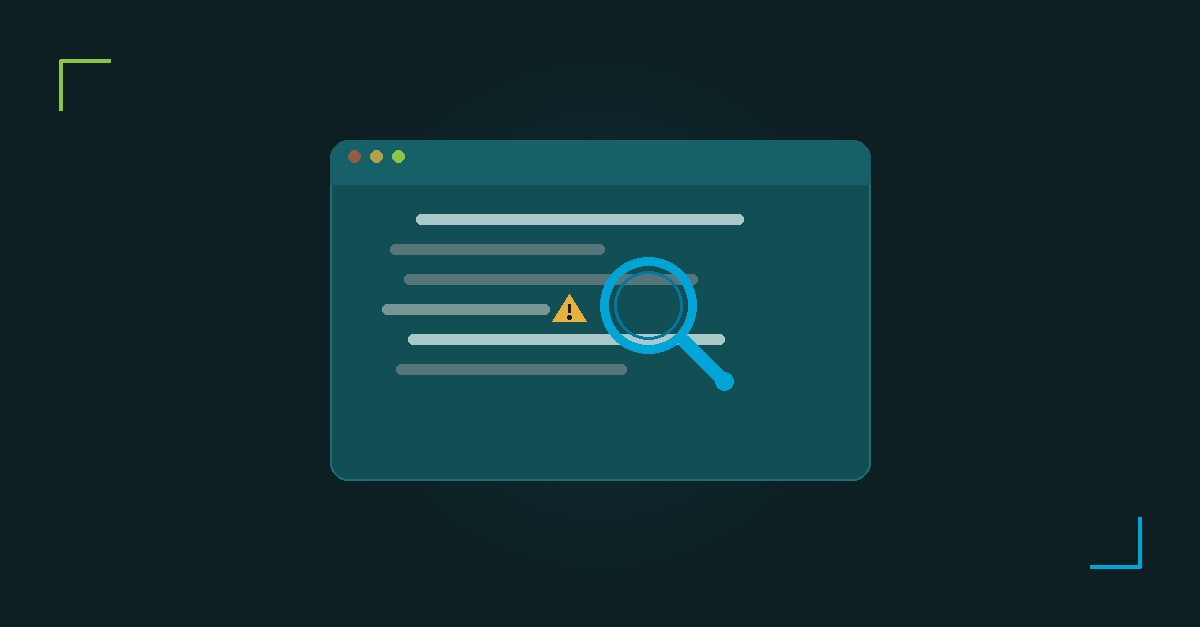
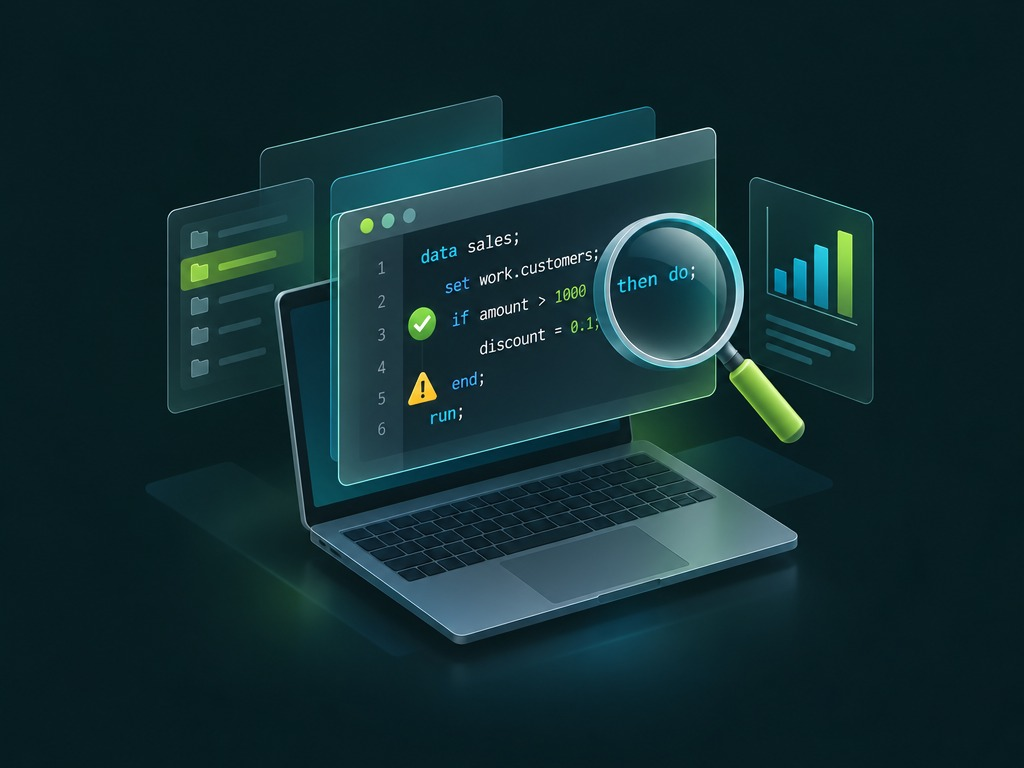
content: mark noUnusedLibnames as 4.1.0, real cover, LinkedIn copy

diff --git a/content/posts/sasjs-lint-new-rules.md b/content/posts/sasjs-lint-new-rules.md
@@ -75,7 +75,7 @@ The first line is a comment statement; the asterisk in `price * qty` is arithmet
 
 ## Unused libnames
 
-`noUnusedLibnames` (off by default) reports a libref that a file assigns and never mentions again. Assigning a libref opens a connection, and on a remote engine that costs time, so a `LIBNAME` statement the file never uses is worth knowing about:
+`noUnusedLibnames` (new in 4.1.0, off by default) reports a libref that a file assigns and never mentions again. Assigning a libref opens a connection, and on a remote engine that costs time, so a `LIBNAME` statement the file never uses is worth knowing about:
 
 ```sas
 libname outData "&outdir";
@@ -127,7 +127,7 @@ The block holds a JSON object merged over the resolved `.sasjslint`: scalars rep
 
 ## Upgrading
 
-Everything above except `noUnusedLibnames` ships in `@sasjs/lint` 4.0.0; the libname rule follows in the next release. The CLI, extension and server pick the rules up as they upgrade. If your pipeline keys on the exit code, note that the new macro and libname rules are warnings, so a hook that fails on ERROR still passes. To keep the previous output, set `"noUndeclaredMacros": false` and `"noUnusedMacros": false`.
+All of the above is in `@sasjs/lint` 4.x - `noSingleAsteriskComments` in 2.7.0, the macro rules in 3.0.0, the per-file overrides and default fixes in 4.0.0, and `noUnusedLibnames` in 4.1.0. The CLI, extension and server pick the rules up as they upgrade. If your pipeline keys on the exit code, note that the new macro and libname rules are warnings, so a hook that fails on ERROR still passes. To keep the previous output, set `"noUndeclaredMacros": false` and `"noUnusedMacros": false`.
 
 <!--
 Image prompt (regenerate with routstr-genimg.py):
@@ -136,4 +136,21 @@ Style: isometric, flat-shaded 3D on a dark background (#0d1f22), translucent gla
 Scene: a floating code editor panel showing a few short lines of SAS code, with a lime green tick badge on one line and a small warning triangle on another; a magnifying glass hovers over the panel.
 Minimal text, no logos, no watermarks.
 Keep the subject in the central square (safe for 1:1 crop); the outer left and right thirds are croppable background only.
+
+Source LinkedIn post:
+
+SASjs Lint shipped four releases this week - new rules to catch problems before code review.
+
+→ noUndeclaredMacros: a macro a file calls but never declares
+→ noUnusedMacros: a macro in the header the file never calls
+→ noSingleAsteriskComments: the comment statement that swallows the rest of your program when its semicolon goes missing
+→ noUnusedLibnames: a libref that opens a connection and is never used again
+
+The macro rules are on by default, and sasjs lint fix reconciles the SAS Macros header for you. Any single file can now override the project rules with a @sasjslint block in its Doxygen header.
+
+One engine, three surfaces: the SASjs CLI, the SASjs VS Code extension, and SASjs Server Studio.
+
+Full walkthrough with SAS examples ✅ https://sasapps.io/sasjs-lint-new-rules/
+
+#SAS #SASjs #OpenSource #DataEngineering
 -->
